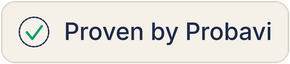
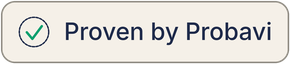
fix(brand): lift the light hairline to 3:1 and give Ink its own lockup (#3)
Two defects, both from the same place: a rule stated in prose that nothing
checked.

Border sand measured 1.33:1 against Paper. §2 sets a 3:1 floor for hairlines
and documented only the dark side's 3.43:1, so when the dark hairline was
fixed the light one was never re-measured — the floor held in the dark and
quietly failed in daylight. Darken it to #8E8A81 (3.03:1), same sand hue,
and put the measurement in the guide next to its counterpart. The floor is
now enforced in gen_tokens.py rather than asserted: every theme's hairline
is measured on each run and the generator refuses to emit tokens below it.
Both past defects fail that check.

logo-white and icon-white were flat white throughout, so on Ink — the
brand's own dark surface — the check vanished into the ring, against §2's
"always pair Paper with Mint". Add logo-mint, logo-mint-outlined and
icon-mint (Paper structure, Mint proof) as the on-Ink marks, and re-scope
the white variants in the guide to what they are for: surfaces that grant a
single colour, photography and third-party dark backgrounds.

Only the light web badge changes among existing assets; it is the one
artifact that draws a Border sand edge.

Changed region(s): [[0.0, 0.0, 1.0, 1.0]]

diff --git a/tokens/tokens.css b/tokens/tokens.css
@@ -4,7 +4,7 @@
   --probavi-green: #0E9F6E;
   --probavi-mint: #4ADE9D;
   --probavi-paper: #F5F0E8;
-  --probavi-border-sand: #D8D2C4;
+  --probavi-border-sand: #8E8A81;
   --probavi-border-slate: #6E7CA6;
   --probavi-font-sans: Inter, system-ui, -apple-system, 'Segoe UI', sans-serif;
   --probavi-font-mono: ui-monospace, SFMono-Regular, Menlo, Consolas, monospace;

diff --git a/tools/gen_brand.py b/tools/gen_brand.py
@@ -19,9 +19,13 @@ def icon_svg(ring, check, tile=None):
   <path d="M 72 122 L 109 166 L 172 81" fill="none" stroke="{check}" stroke-width="16" stroke-linecap="round" stroke-linejoin="round"/>
 </svg>'''
 
+# On Ink the mark keeps its two voices: Paper draws the structure, Mint the
+# proof (guide §2). White-on-white is the reversed mark for surfaces that
+# grant only one colour — photography, a third party's dark background.
 icons = {
     "icon":      icon_svg(INK, GREEN),
     "icon-mono": icon_svg(INK, INK),
+    "icon-mint": icon_svg(PAPER, MINT),
     "icon-white":icon_svg(WHITE, WHITE),
     "icon-tile": icon_svg(PAPER, MINT, tile=INK),
 }
@@ -31,7 +35,7 @@ for name, svg in icons.items():
 for size in [16,32,48,64,128,256,512,1024]:
     cairosvg.svg2png(bytestring=icons["icon"].encode(), write_to=f"{ROOT}/png/icon/icon-{size}.png",
                      output_width=size, output_height=size)
-for name in ["icon-mono","icon-white","icon-tile"]:
+for name in ["icon-mono","icon-mint","icon-white","icon-tile"]:
     for size in [256,1024]:
         cairosvg.svg2png(bytestring=icons[name].encode(), write_to=f"{ROOT}/png/icon/{name}-{size}.png",
                          output_width=size, output_height=size)
@@ -70,7 +74,8 @@ def logo_svg(text_c, check_c):
   <text x="{X_I}" y="{BASE}" font-family="Inter, Arial, sans-serif" font-weight="500" font-size="{FS}" fill="{text_c}">i</text>
 </svg>'''
 
-logos = {"logo": (INK, GREEN), "logo-mono": (INK, INK), "logo-white": (WHITE, WHITE)}
+logos = {"logo": (INK, GREEN), "logo-mono": (INK, INK),
+         "logo-mint": (PAPER, MINT), "logo-white": (WHITE, WHITE)}
 for name,(tc,cc) in logos.items():
     open(f"{ROOT}/svg/logo/{name}.svg","w").write(logo_svg(tc,cc))
 
@@ -95,6 +100,7 @@ def render_logo_png(path, text_c, check_c, height):
 
 for h in [64,128,256]: render_logo_png(f"{ROOT}/png/logo/logo-h{h}.png", INK, GREEN, h)
 render_logo_png(f"{ROOT}/png/logo/logo-mono-h128.png", INK, INK, 128)
+render_logo_png(f"{ROOT}/png/logo/logo-mint-h128.png", PAPER, MINT, 128)
 render_logo_png(f"{ROOT}/png/logo/logo-white-h128.png", WHITE, WHITE, 128)
 
 # ---------- BADGE 1: README shield (h=20) ----------

diff --git a/tools/gen_tokens.py b/tools/gen_tokens.py
@@ -31,22 +31,28 @@ GEOMETRY = {
     "min_size_px": {"icon": 16, "lockup_height": 24},
 }
 
-# A border that resolves to its own background is invisible — that was the bug.
-# Guard against it, and print the measured hairline contrast on every run: the
-# brand argues numbers, so the palette states its own. (WCAG 1.4.11 asks 3:1 of
-# non-text that carries structure; Border slate clears it, Border sand predates
-# the rule and is left alone here.)
+# Hairlines carry structure, so WCAG 1.4.11 asks 3:1 of them — and the guide
+# says so in prose. Enforce it here instead: a rule a generator checks cannot
+# drift out of one theme while the other keeps it. Both past defects fail this
+# floor — the dark hairline that resolved to its own background (1.00:1), and
+# the light one left at 1.33:1 when the dark side was fixed. Print every
+# measurement on each run: the brand argues numbers, so the palette states its
+# own.
+HAIRLINE_MIN = 3.0
+
 def check_semantics():
     for theme, roles in SEMANTIC.items():
         for role, name in roles.items():
             if name not in COLORS:
                 raise SystemExit(f"{theme}/{role}: unknown colour '{name}'")
-        if roles["border"] == roles["bg"]:
-            raise SystemExit(
-                f"{theme}: border '{roles['border']}' is the background — invisible"
-            )
         ratio = contrast(roles["border"], roles["bg"])
         print(f"  {theme:5s} hairline {roles['border']:12s} on {roles['bg']:5s} = {ratio:.2f}:1")
+        if ratio < HAIRLINE_MIN:
+            raise SystemExit(
+                f"{theme}: hairline '{roles['border']}' on '{roles['bg']}' is "
+                f"{ratio:.2f}:1, below the {HAIRLINE_MIN:g}:1 floor — a divider "
+                f"that cannot be seen is a divider that is not there"
+            )
 
 def semantic_block(theme, indent):
     pad = " " * indent

diff --git a/tools/_palette.py b/tools/_palette.py
@@ -14,7 +14,7 @@ COLORS = {
     "green":        {"hex": "#0E9F6E", "rgb": [14, 159, 110],   "role": "The check, success, 'proven'. Accent only."},
     "mint":         {"hex": "#4ADE9D", "rgb": [74, 222, 157],   "role": "The check on dark surfaces; success text in dark UI."},
     "paper":        {"hex": "#F5F0E8", "rgb": [245, 240, 232],  "role": "Light background; light elements on Ink."},
-    "border-sand":  {"hex": "#D8D2C4", "rgb": [216, 210, 196],  "role": "Hairlines on Paper."},
+    "border-sand":  {"hex": "#8E8A81", "rgb": [142, 138, 129],  "role": "Hairlines on Paper."},
     "border-slate": {"hex": "#6E7CA6", "rgb": [110, 124, 166],  "role": "Hairlines on Ink."},
 }
 
@@ -26,8 +26,11 @@ BORDER_SAND  = COLORS["border-sand"]["hex"]
 BORDER_SLATE = COLORS["border-slate"]["hex"]
 
 # Plain white, for the reversed marks that sit on photography or a third
-# party's dark background. Deliberately outside COLORS: it is a printing
-# instruction, not a brand colour, and it must never reach tokens.json.
+# party's dark background, where one flat colour is all the surface allows.
+# On Ink the brand's own dark surface, the mint variants (Paper + Mint) carry
+# the mark instead, as the guide requires. Deliberately outside COLORS: white
+# is a printing instruction, not a brand colour, and must never reach
+# tokens.json.
 WHITE = "#FFFFFF"
 
 

diff --git a/tools/gen_outlined.py b/tools/gen_outlined.py
@@ -4,7 +4,7 @@ import os
 from fontTools.ttLib import TTFont
 from fontTools.pens.svgPathPen import SVGPathPen
 from _fonts import inter
-from _palette import INK, GREEN, WHITE
+from _palette import INK, GREEN, MINT, PAPER, WHITE
 
 ROOT = os.path.join(os.path.dirname(os.path.abspath(__file__)), "..")
 FS = 120
@@ -56,7 +56,8 @@ def outlined_svg(text_c, check_c):
     parts.append('</svg>')
     return "\n".join(parts)
 
-variants = {"logo-outlined": (INK, GREEN), "logo-mono-outlined": (INK, INK), "logo-white-outlined": (WHITE, WHITE)}
+variants = {"logo-outlined": (INK, GREEN), "logo-mono-outlined": (INK, INK),
+            "logo-mint-outlined": (PAPER, MINT), "logo-white-outlined": (WHITE, WHITE)}
 for name, (tc, cc) in variants.items():
     open(f"{ROOT}/svg/logo/{name}.svg", "w").write(outlined_svg(tc, cc))
     print(name, "OK  (canvas:", LOGO_W, "x", LOGO_H, ")")

diff --git a/BRAND_GUIDE.md b/BRAND_GUIDE.md
@@ -1,6 +1,6 @@
 # Probavi brand guide
 
-Version 1.2 · 2026-08-03
+Version 1.3 · 2026-08-03
 
 Probavi is Latin for **"I have proven."** Everything in this identity serves that sentence: the mark is a seal, not a mascot; the palette says trust, not hype; the checkmark is a certificate, not a to-do item.
 
@@ -21,11 +21,15 @@ The icon is a **seal**: a dashed ring enclosing a checkmark.
 |---|---|
 | `icon.svg` / `icon-*.png` | Default icon on light backgrounds |
 | `icon-mono.svg` | Single-color contexts: print, engraving, embossing, fax-grade reproduction |
-| `icon-white.svg` | On Ink navy or photographic dark backgrounds |
+| `icon-mint.svg` | On Ink: Paper ring, Mint check |
+| `icon-white.svg` | Flat white reverse, where the surface allows one color only: photography, a third party's dark background |
 | `icon-tile.svg` | App icon / avatar: Ink rounded square, Paper ring, Mint check |
 | `logo.svg` | Default lockup (icon + wordmark) on light backgrounds |
 | `logo-mono.svg` | Single-color lockup |
-| `logo-white.svg` | Lockup on dark backgrounds |
+| `logo-mint.svg` | Lockup on Ink: Paper wordmark and ring, Mint check |
+| `logo-white.svg` | Flat white reverse lockup, on photography or a third party's dark background |
+
+**On Ink, reach for the mint variants.** They keep the two voices the color rules ask for — Paper draws the structure, Mint carries the proof. The white marks are a concession to surfaces that grant a single color, not the house treatment for a dark background: on the brand's own Ink they flatten the check into the ring and the proof stops reading as proof.
 
 **Choosing icon vs. lockup:** use the full lockup wherever the audience may not know the product (website header, docs, presentations, README top). Use the icon alone only where the name is nearby or the context is established (favicon, app icon, social avatar, CLI, repeated UI elements).
 
@@ -43,10 +47,10 @@ The icon is a **seal**: a dashed ring enclosing a checkmark.
 | Evidence green | `#0E9F6E` | 14 159 110 | The check, success states, "proven". Accent only — never large surfaces. |
 | Mint | `#4ADE9D` | 74 222 157 | The check on dark surfaces (Ink backgrounds), success text in dark UI. |
 | Paper | `#F5F0E8` | 245 240 232 | Light background, light elements on Ink. |
-| Border sand | `#D8D2C4` | 216 210 196 | Hairlines on Paper (badge borders, dividers). |
+| Border sand | `#8E8A81` | 142 138 129 | Hairlines on Paper (badge borders, dividers). |
 | Border slate | `#6E7CA6` | 110 124 166 | Hairlines on Ink (dark-surface dividers, card edges, table rules). |
 
-Border slate is Ink's own hue, desaturated and lightened — the cool mirror of how Border sand is drawn out of Paper. It measures **3.43:1 against Ink**, clearing the 3:1 floor for non-text that carries structure. Hairlines are structure, not decoration: a divider that cannot be seen is a divider that is not there.
+Both hairlines are their background's own hue, pushed until it separates: Border slate is Ink desaturated and lightened, Border sand is Paper darkened. Both are measured, and both clear the 3:1 floor for non-text that carries structure — **Border sand 3.03:1 against Paper, Border slate 3.43:1 against Ink**. Hairlines are structure, not decoration: a divider that cannot be seen is a divider that is not there, and that holds in daylight as much as in the dark. The floor is not left to prose — `tools/gen_tokens.py` measures every theme's hairline on each run and refuses to emit tokens that fall below it.
 
 Rules: one accent, used sparingly — the check carries the green; UI should not compete with it. On Ink, always pair Paper (structure) with Mint (proof); hairlines on Ink are Border slate, never Ink itself and never the accent. Red is reserved exclusively for failed-verification states in the product and never appears in brand assets.
 
@@ -69,7 +73,7 @@ Rules: one accent, used sparingly — the check carries the green; UI should not
 ## 5. Editing the assets
 
 - **Masters are the SVGs** (`svg/`), hand-editable text: geometry lives in a handful of `stroke-dasharray`, `path`, and `text` attributes. PNGs are exports — never edit them directly; re-export instead.
-- The lockup ships in two forms. The **live-text masters** (`logo.svg`, `logo-mono.svg`, `logo-white.svg`) use `<text>` with font-family Inter — these are the editable source. The **outlined distribution copies** (`logo-outlined.svg`, `logo-mono-outlined.svg`, `logo-white-outlined.svg`) have the wordmark converted to vector paths, so they render pixel-identically everywhere, with or without Inter installed. **Rule: send outlined copies to third parties (printers, partners, press kits); edit only the live-text masters, then regenerate the outlined copies** (`tools/gen_outlined.py`).
+- The lockup ships in two forms. The **live-text masters** (`logo.svg`, `logo-mono.svg`, `logo-mint.svg`, `logo-white.svg`) use `<text>` with font-family Inter — these are the editable source. The **outlined distribution copies** (`logo-outlined.svg`, `logo-mono-outlined.svg`, `logo-mint-outlined.svg`, `logo-white-outlined.svg`) have the wordmark converted to vector paths, so they render pixel-identically everywhere, with or without Inter installed. **Rule: send outlined copies to third parties (printers, partners, press kits); edit only the live-text masters, then regenerate the outlined copies** (`tools/gen_outlined.py`).
 - Everything regenerates from one script (`tools/gen_brand.py` in this package): colors, geometry, and layout are defined once; change a constant, rerun, and every size and variant stays consistent.
 - Design tokens (`tokens/tokens.json`, `tokens/tokens.css`) are generated from the same source by `tools/gen_tokens.py` — consume these in the website and dashboard rather than hardcoding hex values.
 - Standard exports included: icon PNGs at 16–1024 px, lockup at heights 64/128/256, `favicon.ico` (16+32+48), badges at 1×/2× and heights 32/48/64.

diff --git a/README.md b/README.md
@@ -11,7 +11,7 @@ Start with **[BRAND_GUIDE.md](BRAND_GUIDE.md)** — it explains the mark, the pa
 | Path | What it is |
 |---|---|
 | `BRAND_GUIDE.md` | The design manual. Read before using anything here. |
-| `svg/icon/` | Seal icon: default, mono, white, and app tile. Editable masters. |
+| `svg/icon/` | Seal icon: default, mono, mint (on Ink), white reverse, and app tile. Editable masters. |
 | `svg/logo/` | Lockup (icon + wordmark). Live-text masters **and** outlined distribution copies. |
 | `svg/badge/` | README shield and the "Proven by Probavi" web badge, light and dark. |
 | `png/` | Exports: icon 16–1024 px, lockup at heights 64/128/256, badges at 1×/2× and 32/48/64. |
@@ -21,7 +21,7 @@ Start with **[BRAND_GUIDE.md](BRAND_GUIDE.md)** — it explains the mark, the pa
 
 ## Which file do I need?
 
-- **Website header, docs, slides, README top** → `svg/logo/logo.svg` (dark backgrounds: `logo-white.svg`)
+- **Website header, docs, slides, README top** → `svg/logo/logo.svg` (on Ink: `logo-mint.svg`; on photography or someone else's dark background: `logo-white.svg`)
 - **Favicon, avatar, app icon** → `favicon.ico`, `svg/icon/icon-tile.svg`
 - **Sending to a printer, partner, or press** → the `*-outlined.svg` lockups (wordmark converted to paths; renders identically without Inter installed)
 - **Styling a site or dashboard** → `tokens/tokens.css`, or `tokens.json` if your build wants structured data
@@ -35,7 +35,7 @@ Start with **[BRAND_GUIDE.md](BRAND_GUIDE.md)** — it explains the mark, the pa
 .button { background: var(--probavi-accent); color: var(--probavi-paper); }
 ```
 
-Light/dark switching is built in, and answers to two signals. By default the tokens follow the OS via `prefers-color-scheme`. If the page sets `data-theme="dark"` or `data-theme="light"` on `<html>` — as Starlight's theme toggle does — that wins over the OS preference in both directions, so a visitor on a light OS who switches the site to dark gets the dark values, and the reverse. Either way `--probavi-accent` resolves to Evidence green on light backgrounds and Mint on dark ones, and `--probavi-border` to Border sand on Paper and Border slate on Ink, as the guide requires.
+Light/dark switching is built in, and answers to two signals. By default the tokens follow the OS via `prefers-color-scheme`. If the page sets `data-theme="dark"` or `data-theme="light"` on `<html>` — as Starlight's theme toggle does — that wins over the OS preference in both directions, so a visitor on a light OS who switches the site to dark gets the dark values, and the reverse. Either way `--probavi-accent` resolves to Evidence green on light backgrounds and Mint on dark ones, and `--probavi-border` to Border sand on Paper and Border slate on Ink, as the guide requires. Both hairline pairings are measured at generation time and clear the 3:1 contrast floor — 3.03:1 and 3.43:1 — so a border taken from these tokens stays visible in either theme.
 
 ## Regenerating
 
@@ -58,7 +58,7 @@ Inter is looked up in the usual font directories (`~/.fonts`, `~/.local/share/fo
 INTER_DIR=~/Downloads/Inter-4.1/extras/ttf python3 tools/gen_brand.py
 ```
 
-Reproducibility is verified, not assumed: with the pinned toolchain and Inter 4.1, rerunning all three generators reproduces every committed artifact — 43 files across `png/`, `svg/`, `favicon.ico` and `tokens/` — byte for byte.
+Reproducibility is verified, not assumed: with the pinned toolchain and Inter 4.1, rerunning all three generators reproduces every committed artifact — 49 files across `png/`, `svg/`, `favicon.ico` and `tokens/` — byte for byte.
 
 **Never edit files under `png/` or `tokens/` by hand** — they are generated. Change the source in `tools/` (or the SVG masters) and rerun.
 
